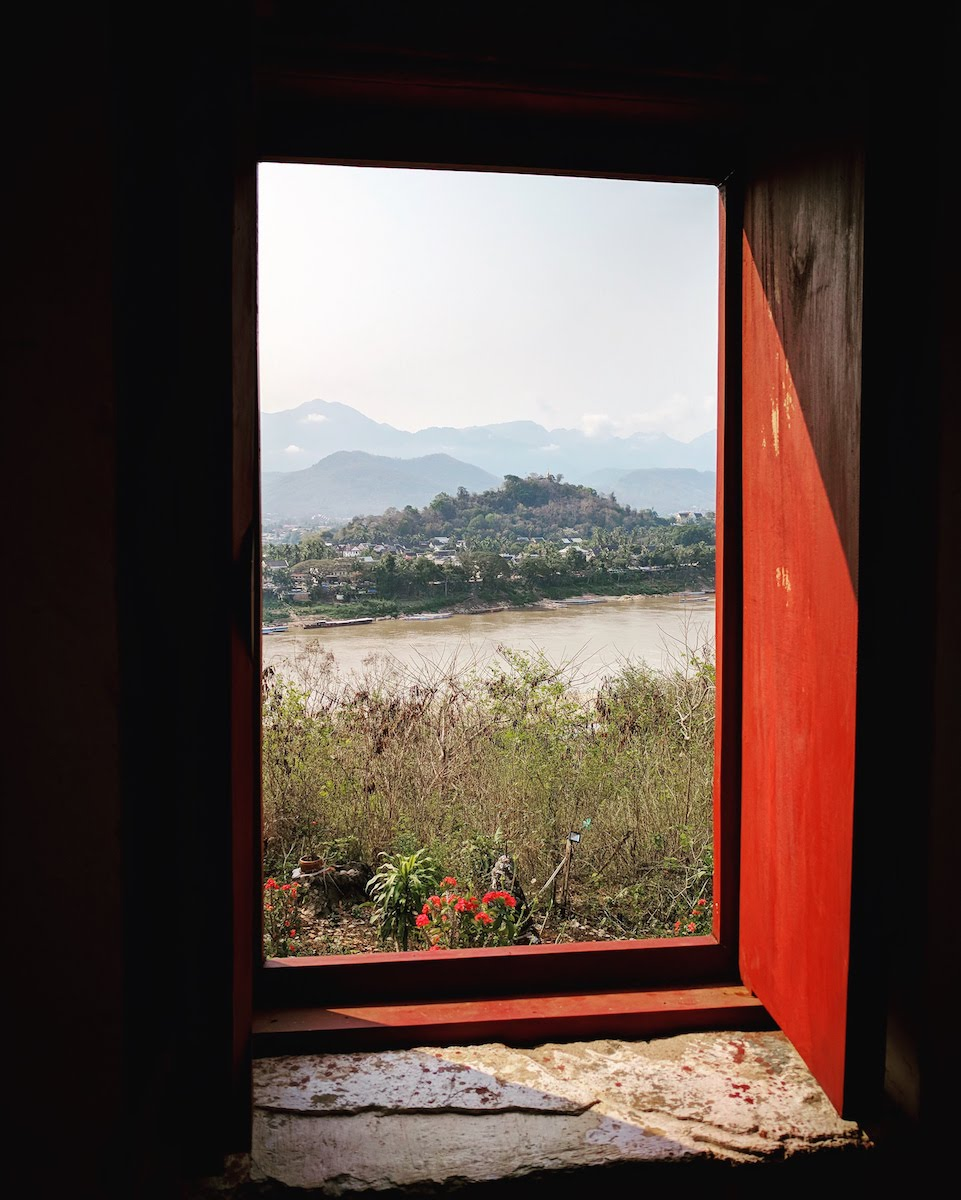
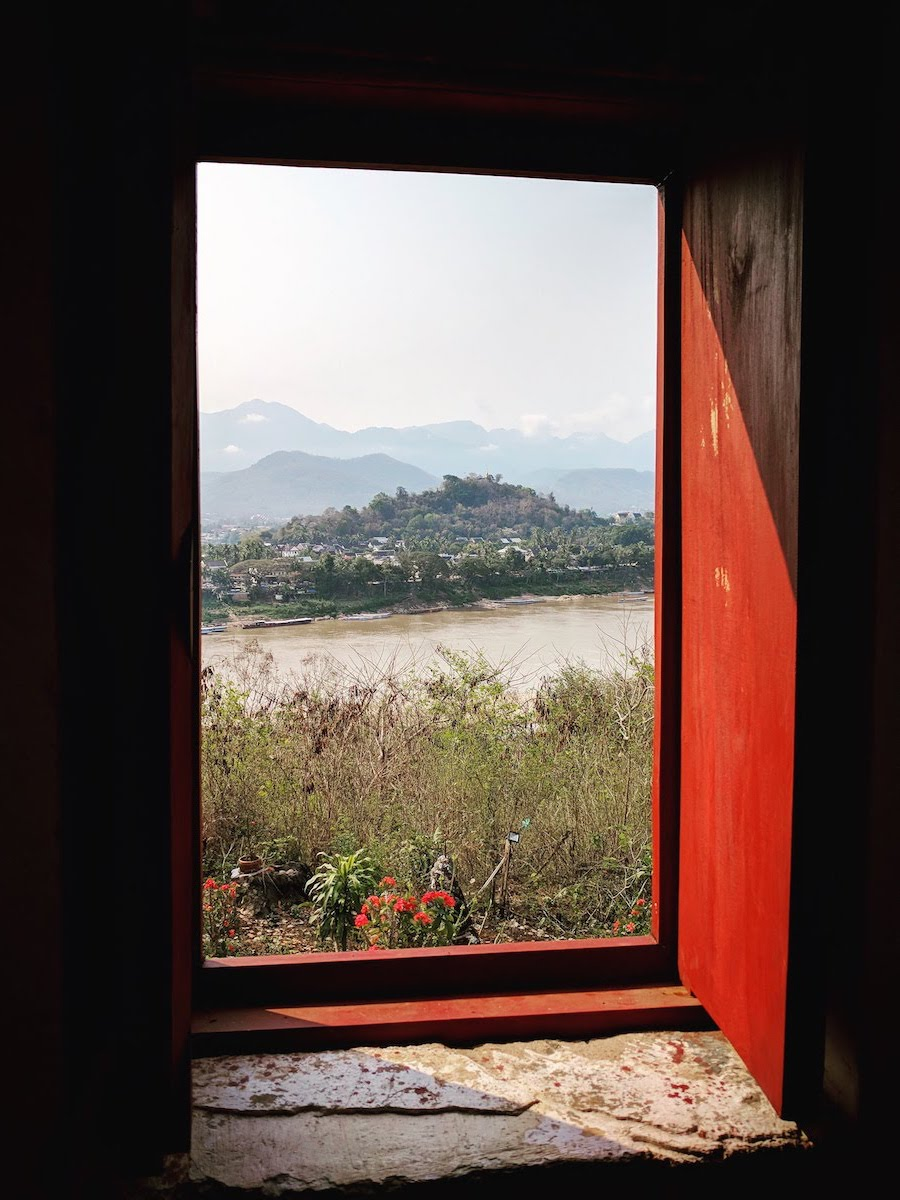
finalize photos

Changed region(s): [[0.1867, 0.1233, 0.9333, 1.0], [0.5289, 0.1233, 0.5911, 0.1542]]

diff --git a/_posts/2018-03-03-Laos.md b/_posts/2018-03-03-Laos.md
@@ -7,7 +7,7 @@ keywords: "Asia, Laos, What to Do, Wats, Alms, hiking, RTW"
 categories: [Asia]
 tags: Laos
 icon: icon-html
-image: blog/.jpg
+image: blog/LaosFallsSmile.jpg
 author: Amy
 country: Laos
 hidden: false
@@ -43,7 +43,7 @@ After our climb we went to **Xieng Thong Noodle**, a noodle shop near the end of
 
 You can't visit Luang Prabang without visiting some of the many Wats (temples) that are scattered around the city and surrounding area. We spent some time exploring Wat Xiengthong with it's detailed and colorful mosaics and quirky decorative touches. 
 
-<div style="text-align: center; max-width: calc(100% - 20px);"><a href="/static/assets/img/blog/LaosWatX.jpg" target="_blank"><img src="/static/assets/img/blog/LaosWatX.jpg" width="32%"></a> <a href="/static/assets/img/blog/LaosWatX2.jpg" target="_blank"><img src="/static/assets/img/blog/LaosWatX2.jpg" width="32%"></a> <a href="/static/assets/img/blog/LaosWat3.jpg" target="_blank"><img src="/static/assets/img/blog/LaosWat3.jpg" width="32%"></a><p><i></i></p></div><p></p>
+<div style="text-align: center; max-width: calc(100% - 20px);"><a href="/static/assets/img/blog/LaosWatX.jpg" target="_blank"><img src="/static/assets/img/blog/LaosWatX.jpg" width="32%"></a> <a href="/static/assets/img/blog/LaosWatX2.jpg" target="_blank"><img src="/static/assets/img/blog/LaosWatX2.jpg" width="32%"></a> <a href="/static/assets/img/blog/LaosWatX3.jpg" target="_blank"><img src="/static/assets/img/blog/LaosWatX3.jpg" width="32%"></a><p><i></i></p></div><p></p>
 
 To cool off from the afternoon heat (it was in the high 90s everyday) we stopped at **Saffron Cafe** for me to enjoy a coffee while we sat in the shade looking out over the Mekong. While the coffee is twice the price of a large fruit shake from a street stall; it was delicious, service was great, and having a place to sit and read by the river made it worthwhile.
 
@@ -53,17 +53,17 @@ To start, we walked on to a small car ferry across the Mekong. It's a short trip
 
 From there we walked along a nicely paved path through a village until we reached **Wat Chomphet**. Entrance to the Wat is 20,000 Kip/person, just like Mount Phousi but the views are just as wonderful. 
 
-<div style="text-align: center; max-width: calc(100% - 20px);"><a href="/static/assets/img/blog/LaosWatChomphet.jpg" target="_blank"><img src="/static/assets/img/blog/LaosWatChomphet.jpg" width="35.5%"></a> <a href="/static/assets/img/blog/LaosWatChomphet2.jpg" target="_blank"><img src="/static/assets/img/blog/LaosWatChomphet2.jpg" width="20%"></a> <a href="/static/assets/img/blog/LaosWatChomphetView.jpg" target="_blank"><img src="/static/assets/img/blog/LaosWatChomphetView.jpg" width="35.5%"></a><p><i></i></p></div><p></p>
+<div style="text-align: center; max-width: calc(100% - 20px);"><a href="/static/assets/img/blog/LaosWatChomphet.jpg" target="_blank"><img src="/static/assets/img/blog/LaosWatChomphet.jpg" width="35.5%"></a> <a href="/static/assets/img/blog/LaosWatChomphet2.jpg" target="_blank"><img src="/static/assets/img/blog/LaosWatChomphet2.jpg" width="20%"></a> <a href="/static/assets/img/blog/LaosHikeChompetView.jpg" target="_blank"><img src="/static/assets/img/blog/LaosHikeChompetView.jpg" width="35.5%"></a><p><i></i></p></div><p></p>
 
 We then continued along paths that became less and less maintained, past Wats, and a few huts/shacks, until we reached a large Wat that was actively under construction. That is the point that marks the start of a path marked by golden cones through a forest and past several art installations and sets of Buddha statues. 
 
-<div style="text-align: center; max-width: calc(100% - 20px);"><a href="/static/assets/img/blog/LaosHike.jpg" target="_blank"><img src="/static/assets/img/blog/LaosHike.jpg" width="25.4%"></a> <a href="/static/assets/img/blog/LaosHikeMarker.jpg" target="_blank"><img src="/static/assets/img/blog/LaosHikeMarker.jpg" width="25.4%"></a> <a href="/static/assets/img/blog/LaosHikeFence.jpg" target="_blank"><img src="/static/assets/img/blog/LaosHikeFence.jpg" width="25.4%"></a><p><i>CAPTION.</i></p></div><p></p>
+<div style="text-align: center; max-width: calc(100% - 20px);"><a href="/static/assets/img/blog/LaosHike.jpg" target="_blank"><img src="/static/assets/img/blog/LaosHike.jpg" width="25.4%"></a> <a href="/static/assets/img/blog/LaosHikeMarker.jpg" target="_blank"><img src="/static/assets/img/blog/LaosHikeMarker.jpg" width="25.4%"></a> <a href="/static/assets/img/blog/LaosHikeFence.jpg" target="_blank"><img src="/static/assets/img/blog/LaosHikeFence.jpg" width="25.4%"></a><p><i></i></p></div><p></p>
 
 From there we were going to try to complete a loop up to the the 7-head Naga on the ridge shown on the map but found that no matter which path we tried it ended in a fence or just disappeared into the forest. Instead, we finally decided to backtrack a little and follow a dirt road back to the ferry rather than following the exact same path we'd taken before. 
 
 While it did get hot by the time we were heading back, most of the path is pretty shady. We also only say a few other tourists on our walk, though many more were disembarking the ferry as we were heading back toward Old Town. 
 
-<div style="text-align: center;"><a href="/static/assets/img/blog/LaosHikePANO.jpg" target="_blank"><img src="/static/assets/img/blog/LoasHikePANO.jpg" style="max-width: calc(95% - 20px);"></a><p><i>CAPTION.</i></p></div><p></p> 
+<div style="text-align: center;"><a href="/static/assets/img/blog/LaosHikePANO.jpg" target="_blank"><img src="/static/assets/img/blog/LaosHikePANO.jpg" style="max-width: calc(85% - 20px);"></a><p><i></i></p></div><p></p> 
 
 After all our hiking, we wanted to relax and cool off. Almost every blog or must do list for Luang Prabang, as well as our guest house, recommends Utopia. It's a restaurant and bar overlooking the Nam Khan that is very popular with backpackers, especially because it stays open until 11pm, when most things have already closed. We decided to give it a try. The view was just as good as promised and the space is nice with tables as well as cushions to lounge on in the sun but the service was bad and the food was worse. We ordered a tofu dish as a snack and after some confusion where after 30 minutes they brought us two cocktails we didn't order instead of the tofu we finally got four very mediocre barely warm cubes of tofu with a little sauce and cheese on top. You're also able to smoke and _many_ people were, which really ruined my ability to enjoy. Needless to say, I was not impressed and would steer clear of this place unless all I wanted was a tower of beer. 
 
@@ -81,7 +81,7 @@ As a reward for our hard work biking around, we treated ourselves to 2-for-1 coc
 
 We parked our bike, paid a nominal fee to have someone keep an eye on it, and headed toward the falls. Entrance is 20,000 Kip (~2.50 USD) and is completely worth every penny. You start by walking through **Tat Kuang Si Bear Rescue Centre**, we decided to save the cute bears until our way back to try to take advantage of showing up on the earlier side (10:00am) to avoid crowds at the falls. 
 
-<div style="text-align: center; max-width: calc(100% - 20px);"><a href="/static/assets/img/blog/LaosFallsHike.jpg" target="_blank"><img src="/static/assets/img/blog/LaosFallsHike.jpg" width="20%"></a> <a href="/static/assets/img/blog/LaosFallsSmile.jpg" target="_blank"><img src="/static/assets/img/blog/LaosFallsSmile.jpg" width="35.5%"></a> <a href="/static/assets/img/blog/LaosFalls1.jpg" target="_blank"><img src="/static/assets/img/blog/LaosFalls1.jpg" width="35.5%"></a><p><i>CAPTION.</i></p></div><p></p>
+<div style="text-align: center; max-width: calc(100% - 20px);"><a href="/static/assets/img/blog/LaosFallsHike.jpg" target="_blank"><img src="/static/assets/img/blog/LaosFallsHike.jpg" width="20%"></a> <a href="/static/assets/img/blog/LaosFallsSmile.jpg" target="_blank"><img src="/static/assets/img/blog/LaosFallsSmile.jpg" width="35.5%"></a> <a href="/static/assets/img/blog/LaosFalls1.jpg" target="_blank"><img src="/static/assets/img/blog/LaosFalls1.jpg" width="35.5%"></a><p><i></i></p></div><p></p>
 
 After getting advice from a friend not to be intimidated by the cautionary signs about the trekking path, we ventured into a hike up from the lower pools along a forrest path that was sometimes steep, sometimes slippery, but mostly free from any other people. There is also the option to take wooden walkways and stairs up and we took that route back down but the trekking route was not bad, even in my cheap flip flops, and was much quieter. 
 
